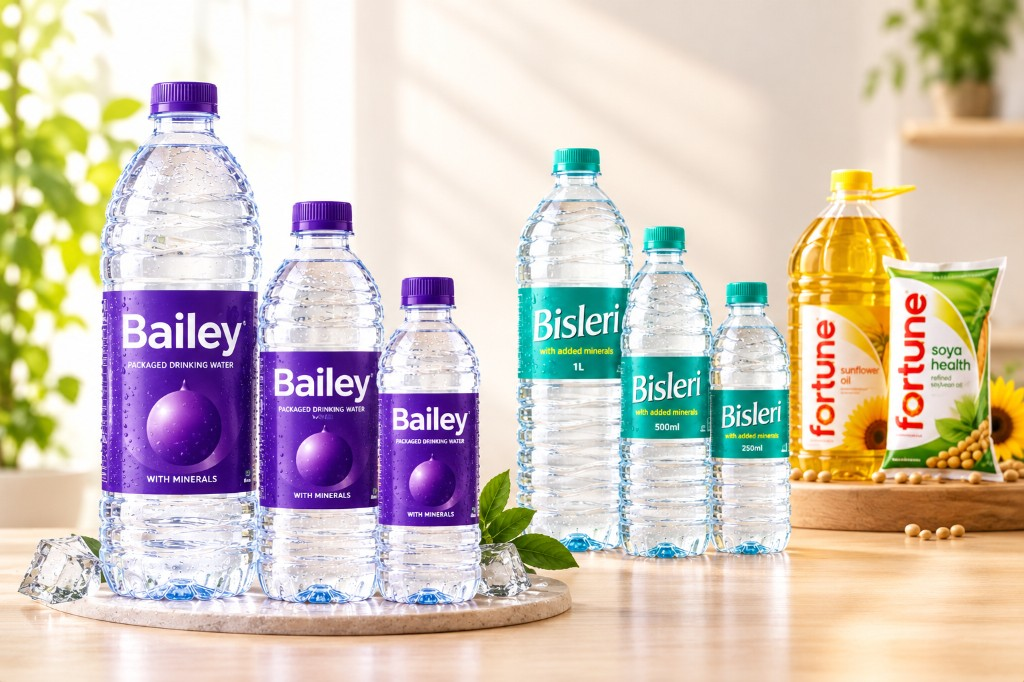
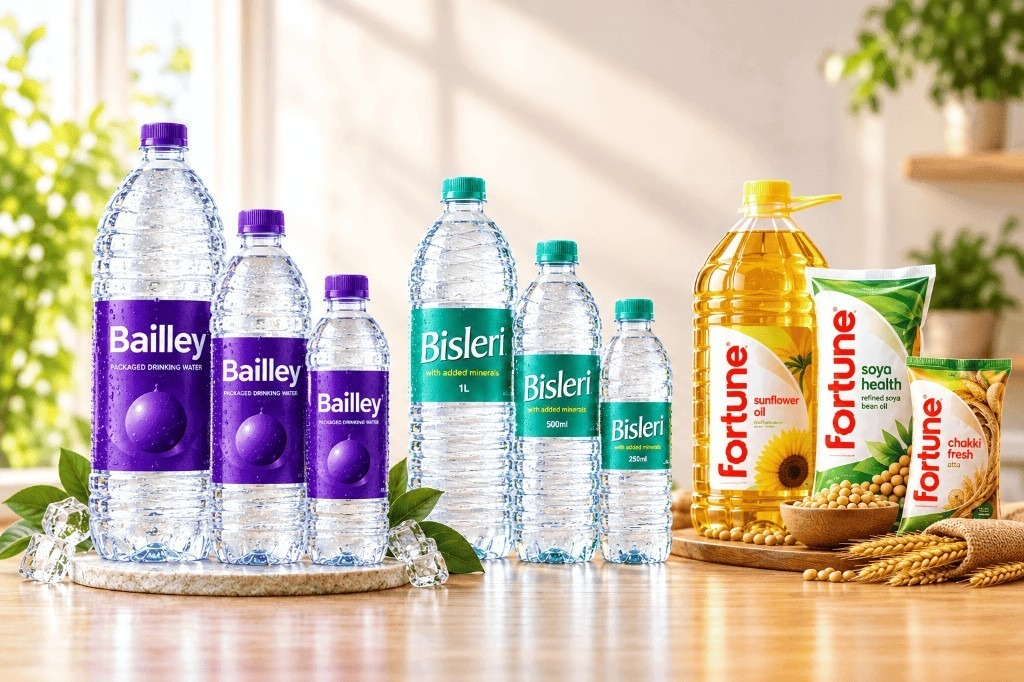
Update product images and add new Bailley products in products.js
- Updated image URLs for the existing about-home.jpg in about.html and index.html to include versioning for cache management.
- Removed the Bisleri 20L product entry from products.js.
- Added new Bailley product entries for 10L, 1L, and 500ML packaged drinking water, including updated image URLs and descriptions.

diff --git a/js/products.js b/js/products.js
@@ -920,16 +920,6 @@ const PRODUCTS = [
         points: ["Fortune Alife Soap", "Rose"]
     },
     {
-        id: "bisleri-20l-jar",
-        category: "Packaged Drinking Water",
-        name: "Bisleri 20 L Packaged Drinking Water",
-        image: "images/bisleri/water-20l.png?v=5",
-        packs: "1 Jar · ₹100/- per jar",
-        packList: ["20 Litre jar", "₹100/- per jar"],
-        summary: "Bisleri 20 litre packaged drinking water jar.",
-        points: ["20 Litre jar", "₹100/- per jar"]
-    },
-    {
         id: "bisleri-10l-jar",
         category: "Packaged Drinking Water",
         name: "Bisleri 10 L Packaged Drinking Water",
@@ -1043,6 +1033,19 @@ const PRODUCTS = [
         ]
     },
     {
+        id: "bailley-10l",
+        category: "Bailley",
+        name: "Bailley 10 Ltr Packaged Drinking Water",
+        image: "images/bailley/water-10l.png?v=1",
+        packs: "10 Ltr – Pack of 1",
+        packList: ["10 Litre", "Pack of 1"],
+        summary: "Bailley 10 litre packaged drinking water with minerals.",
+        points: [
+            "10 Ltr – Pack of 1",
+            "Packaged drinking water with minerals"
+        ]
+    },
+    {
         id: "bailley-5l",
         category: "Bailley",
         name: "Bailley 5 Ltr Packaged Drinking Water",
@@ -1052,8 +1055,7 @@ const PRODUCTS = [
         summary: "Bailley 5 litre packaged drinking water with minerals.",
         points: [
             "5 Ltr – Pack of 1",
-            "Packaged drinking water with minerals",
-            "Free jar, no deposit"
+            "Packaged drinking water with minerals"
         ]
     },
     {
@@ -1067,6 +1069,32 @@ const PRODUCTS = [
         points: [
             "2 Ltr – Pack of 6",
             "Packaged drinking water with minerals"
+        ]
+    },
+    {
+        id: "bailley-1l",
+        category: "Bailley",
+        name: "Bailley 1 Ltr Packaged Drinking Water",
+        image: "images/bailley/water-1l.png?v=3",
+        packs: "1 Ltr – Pack of 12",
+        packList: ["1 Litre", "Pack of 12"],
+        summary: "Bailley 1 litre packaged drinking water with minerals, pack of 12.",
+        points: [
+            "1 Ltr – Pack of 12",
+            "Packaged drinking water with minerals"
+        ]
+    },
+    {
+        id: "bailley-one-500ml",
+        category: "Bailley",
+        name: "Bailley One 500 ML Packaged Drinking Water",
+        image: "images/bailley/bailley-one-500ml.png?v=3",
+        packs: "500 ML – Pack of 24",
+        packList: ["500 ML", "Pack of 24"],
+        summary: "Bailley One 500 ml packaged drinking water with minerals, pack of 24.",
+        points: [
+            "500 ML – Pack of 24",
+            "Bailley One with minerals"
         ]
     }
 ];

diff --git a/about.html b/about.html
@@ -46,7 +46,7 @@
             <div class="about-grid">
                 <div class="about-visual">
                     <div class="about-image-wrapper">
-                        <img src="images/about-home.jpg" alt="Bailley, Bisleri, and Fortune products from Premium Food Supply">
+                        <img src="images/about-home.jpg?v=3" alt="Bailley, Bisleri, and Fortune products from Premium Food Supply">
                     </div>
                 </div>
                 <div class="about-content">

diff --git a/index.html b/index.html
@@ -67,7 +67,7 @@
             <div class="about-grid">
                 <div class="about-visual">
                     <div class="about-image-wrapper">
-                        <img src="images/about-home.jpg" alt="Bailley, Bisleri, and Fortune products from Premium Food Supply">
+                        <img src="images/about-home.jpg?v=3" alt="Bailley, Bisleri, and Fortune products from Premium Food Supply">
                     </div>
                 </div>
                 <div class="about-content">
